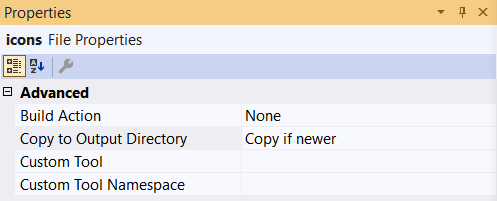
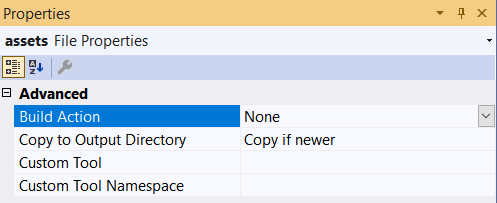
Update doc to output all assets into assets bundle

diff --git a/BlueprintCore/articles/tutorials/advanced/skalds_vigor.md b/BlueprintCore/articles/tutorials/advanced/skalds_vigor.md
@@ -23,7 +23,7 @@ public class SkaldsVigor
 }
 ```
 
-### Adding a Prerequisite
+## Adding a Prerequisite
 
 First let's make sure the feat is only available to character with the Raging Song feature. There's a category of components to implement feature preqrequisites. You can find them by searching `Prerequisite` in the `FeatureConfigurator` API or the decompiler.
 
@@ -50,7 +50,7 @@ and unavailable to characters without it:
 
 ![Skald's Vigor showing prerequisite is missing](~/images/advanced_feat/missing_prereq.png)
 
-### Fast Healing
+## Fast Healing
 
 Applying fast healing is done by creating a new buff:
 
@@ -94,7 +94,7 @@ Test it out and you should see something similar to this:
 
 It works! There are two problems now: there is no buff icon and if you have the Lingering Performance feat the healing is not removed immediately.
 
-### Handling Lingering Performance
+## Handling Lingering Performance
 
 First we need to understand how Lingering Performance is implemented using BubblePrints:
 
@@ -153,9 +153,9 @@ EventBus.Subscribe(new InspiredRageDeactivationHandler());
 
 Test it with Lingering Performance and the buff should clear at the start of your next turn while Inspired Rage remains.
 
-### Adding a Buff Icon
+## Adding a Buff Icon
 
-#### Select an Icon
+### Select an Icon
 
 This tutorial doesn't walk through creating an icon. You can use the [Unity Asset Store](https://assetstore.unity.com/) to find an icon, paid or free.
 
@@ -171,7 +171,7 @@ If you're creating new icons they should be 64x64.
 
 Here are the icons we'll use for Skald's Vigor: ![Skald's Vigor icon](~/images/advanced_feat/SkaldVigor.png) ![Skald's Vigor icon](~/images/advanced_feat/GreaterSkaldVigor.png)
 
-#### Create an AssetBundle
+### Create an AssetBundle
 
 It is common for mods to import PNG files directly, see [TabletopTweaks-Core's](https://github.com/Vek17/TabletopTweaks-Core/tree/master/TabletopTweaks-Core) `AssetLoader` for an example. This works but is not efficient and doesn't work if you want to import other assets such as models, textures, and shaders.
 
@@ -191,15 +191,18 @@ Select the icons folder, then **Assets > Import New Asset** and choose your icon
 
 Your icon should be displayed in the folder contents. Select it and in the Inspector tab set **Texture Type** to **Sprite (2D and UI)** and click Apply.
 
-With the icon still selected, click the **AssetBundle** dropdown at the bottom of the Inspector tab, select **New** and enter **icons**. This determines which generated AssetBundle will contain the icon. The Inspector tab should look like this:
+With the icon still selected, click the **AssetBundle** dropdown at the bottom of the Inspector tab, select **New** and enter **assets**. This determines which generated AssetBundle will contain the icon. The Inspector tab should look like this:
 
 ![Icon inspector tab](~/images/advanced_feat/unity_sprite_config.png)
 
-Create the AssetBundle by selecting **Assets > Build AssetBundles**. Unity generates the **StreamingAssets** folder which should contain two AssetBundles: icons and StreamingAssets. You can ignore StreamingAssets.
+> ![NOTE]
+> Currently BPCore only supports a single AssetBundle called "assets". The icons folder is for organization but everything should go to the assets bundle.
 
-#### Deploy the AssetBundle
+Create the AssetBundle by selecting **Assets > Build AssetBundles**. Unity generates the **StreamingAssets** folder which should contain two AssetBundles: assets and StreamingAssets. You can ignore StreamingAssets.
 
-In your mod project create a new **Assets** folder, right click it, and select **Add > Existing Item**. Navigate to the folder containing your AssetBundle and add it to the project. Make sure you set file filter to **All Files** at the bottom right. Ignore `icons.manifest`, `icons.meta`, and `icons.manifest.meta`.
+### Deploy the AssetBundle
+
+Back in your mod right click your project and select **Add > Existing Item**. Navigate to the folder containing your AssetBundle and add it to the project. Make sure you set file filter to **All Files** at the bottom right. Ignore `assets.manifest`, `assets.meta`, and `assets.manifest.meta`.
 
 Right click the AssetBundle, select **Properties**, then set **Copy to Output Directory** to **Copy if newer**:
 
@@ -213,15 +216,15 @@ Open your project file and update your deployment target:
   <Assembly Include="$(OutputPath)\$(AssemblyName).dll" />
   <ModConfig Include="$(OutputPath)\Info.json" />
   <Strings Include="$(OutputPath)\LocalizedStrings.json" />
-  <Icons Include="$(OutputPath)\Assets\icons" />
+  <Assets Include="$(OutputPath)\assets" />
 </ItemGroup>
 
 <Copy SourceFiles="@(Assembly)" DestinationFolder="$(WrathPath)\Mods\$(MSBuildProjectName)" />
 <Copy SourceFiles="@(ModConfig)" DestinationFolder="$(WrathPath)\Mods\$(MSBuildProjectName)" />
 <Copy SourceFiles="@(Strings)" DestinationFolder="$(WrathPath)\Mods\$(MSBuildProjectName)" />
-<Copy SourceFiles="@(Icons)" DestinationFolder="$(WrathPath)\Mods\$(MSBuildProjectName)" />
+<Copy SourceFiles="@(Assets)" DestinationFolder="$(WrathPath)\Mods\$(MSBuildProjectName)" />
 </Target>
 ```
 
-#### Load the Asset
+### Load the Asset
 
